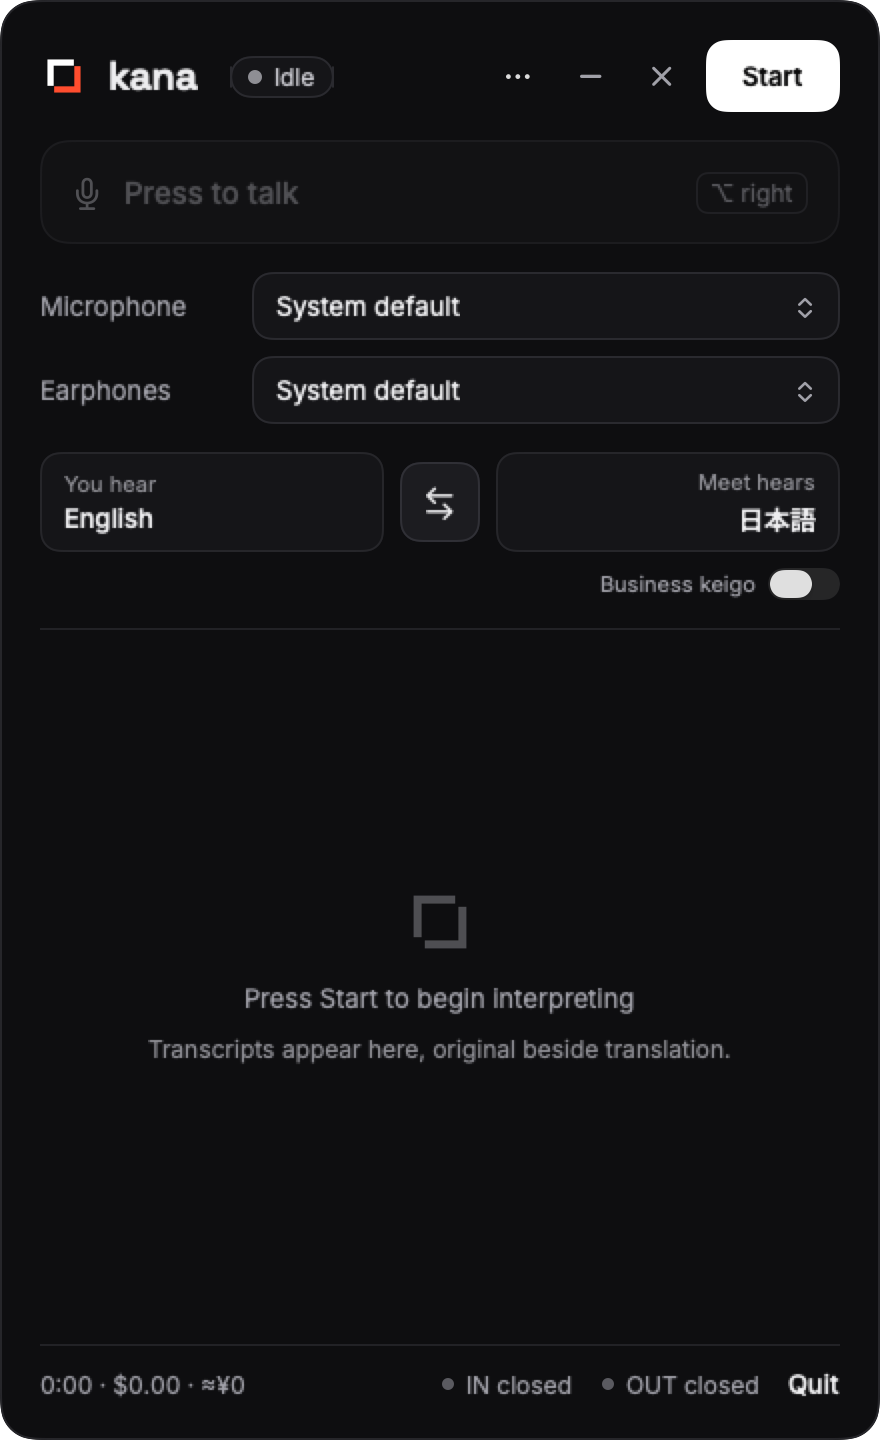
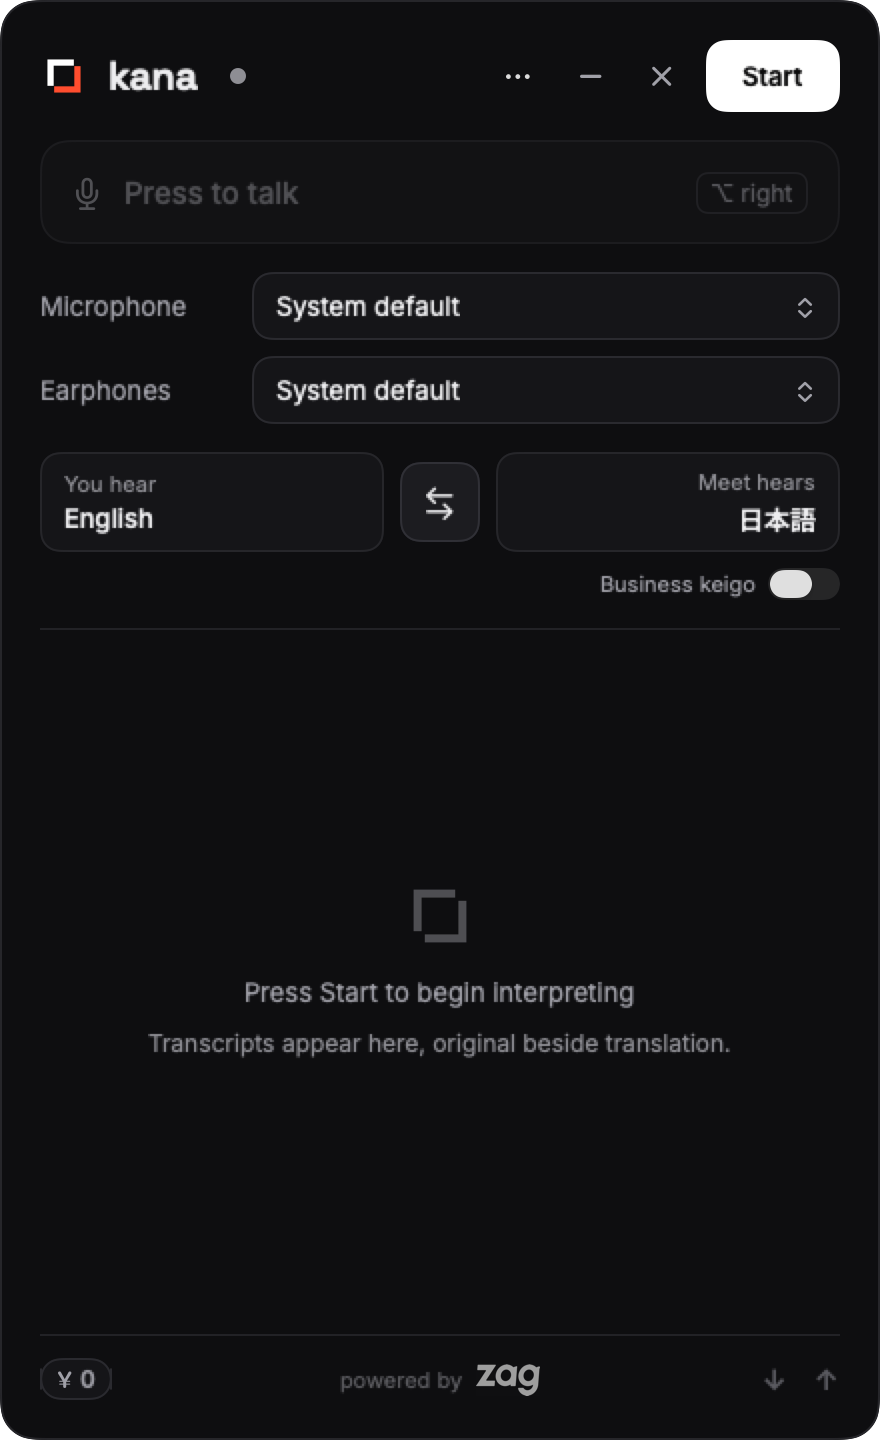
Panel footer and state dot (snapshot of main)

diff --git a/app/Sources/Kana/PanelView.swift b/app/Sources/Kana/PanelView.swift
@@ -177,7 +177,6 @@ struct PanelView: View {
                     transcript
                 }
                 footer
-                CreditLine()
             }
             .opacity(f.content)
             .offset(y: 8 * (1 - f.content))
@@ -215,8 +214,9 @@ struct PanelView: View {
                     .opacity(f.move)
                 StatePill(live: engine.running, passing: engine.passingThrough)
                     .fixedSize()
-                    .padding(.leading, 6)
-                    .help(engine.model == nil ? "" : engine.engineTooltip)
+                    .padding(.leading, 2)
+                    .help(StatePill(live: engine.running, passing: engine.passingThrough).word
+                          + (engine.model == nil ? "" : "\n" + engine.engineTooltip))
                     .opacity(f.content)
             }
             Spacer(minLength: 4)
@@ -235,6 +235,7 @@ struct PanelView: View {
                     Image(systemName: "xmark").font(.system(size: 12, weight: .semibold))
                 }
                 .buttonStyle(IconButtonStyle())
+                .keyboardShortcut("q")
                 .help(L10n.t("Quit kana"))
                 if engine.running {
                     Button(L10n.t("Stop")) { engine.stop() }
@@ -702,25 +703,16 @@ struct PanelView: View {
     // MARK: Footer
 
     private var footer: some View {
-        HStack(spacing: 10) {
-            TimelineView(.periodic(from: .now, by: 1)) { ctx in
-                Text(costLine(now: ctx.date))
-                    .monospacedDigit()
-                    .foregroundStyle(engine.running ? Theme.text : Theme.text3)
-                    .lineLimit(1)
-                    .fixedSize()
+        ZStack {
+            HStack(spacing: 10) {
+                costChip
+                Spacer(minLength: 4)
+                HStack(spacing: 12) {
+                    stream("IN", engine.inState, engine.latencyMs["in"])
+                    stream("OUT", engine.outState, engine.latencyMs["out"])
+                }
             }
-            .help(costTooltip)
-            Spacer(minLength: 4)
-            HStack(spacing: 12) {
-                stream("IN", engine.inState, engine.latencyMs["in"])
-                stream("OUT", engine.outState, engine.latencyMs["out"])
-                Button(L10n.t("Quit")) { actions.quit() }
-                    .buttonStyle(.plain)
-                    .font(Theme.ui(13, 500))
-                    .foregroundStyle(Theme.text)
-                    .keyboardShortcut("q")
-            }
+            CreditLine()
         }
         .font(Theme.ui(12))
         .foregroundStyle(Theme.text3)
@@ -728,9 +720,30 @@ struct PanelView: View {
         .overlay(alignment: .top) { Rectangle().fill(Theme.lineSoft).frame(height: 1) }
     }
 
+    /// The running cost as a small chip: a yen glyph and the amount, nothing else on the face.
+    private var costChip: some View {
+        TimelineView(.periodic(from: .now, by: 1)) { ctx in
+            HStack(spacing: 3) {
+                Image(systemName: "yensign")
+                    .font(.system(size: 9, weight: .bold))
+                Text(costLine(now: ctx.date))
+                    .monospacedDigit()
+                    .font(Theme.ui(12, 600))
+            }
+            .foregroundStyle(engine.running ? Theme.text : Theme.text3)
+            .lineLimit(1)
+            .fixedSize()
+            .padding(.horizontal, 8)
+            .padding(.vertical, 3)
+            .background(Capsule().fill(Theme.surface))
+            .overlay(Capsule().strokeBorder(Theme.c(0x2A2A2F)))
+        }
+        .help(costTooltip)
+    }
+
     /// Footer shows the yen only ("¥13"); time, dollars and the silence saved are in its tooltip.
     private func costLine(now: Date) -> String {
-        let jpy = "¥\(Int((engine.usd * EngineProcess.jpyPerUSD).rounded()))"
+        let jpy = "\(Int((engine.usd * EngineProcess.jpyPerUSD).rounded()))"
         let est = engine.running && engine.costIsEstimate ? " " + L10n.t("est.") : ""
         return jpy + est
     }

diff --git a/app/Sources/Kana/Credit.swift b/app/Sources/Kana/Credit.swift
@@ -1,43 +1,42 @@
 import AppKit
 import SwiftUI
 
-/// "a product of [zag]": one quiet line under the panel footer and at the end of Setup.
+/// "powered by [zag]": sits in the middle of the panel footer and at the end of Setup.
 /// The wordmark is the drawn mark (brand rule: never typed), 19 pt tall, the brand minimum
-/// on screen, with clear space around it. Click opens withzag.com.
+/// on screen, centred on the text line. Click opens withzag.com.
 struct CreditLine: View {
     static let url = URL(string: "https://withzag.com")!
     @State private var hovering = false
 
     private static let mark: NSImage? = {
-        guard let url = Bundle.main.resourceURL?.appendingPathComponent("Brand/zag-logo-white.png"),
-              let img = NSImage(contentsOf: url) else { return nil }
-        img.size = NSSize(width: 19 * img.size.width / img.size.height, height: 19)
-        return img
+        guard let url = Bundle.main.resourceURL?.appendingPathComponent("Brand/zag-logo-white.png") else { return nil }
+        return NSImage(contentsOf: url)
     }()
 
     var body: some View {
-        HStack {
-            Spacer(minLength: 0)
-            line
-                .font(Theme.ui(11))
-                .foregroundStyle(Theme.text4)
-                .opacity(hovering ? 1 : 0.6)
-                .padding(.vertical, 4)
-                .contentShape(Rectangle())
-                .onHover { hovering = $0; if $0 { NSCursor.pointingHand.push() } else { NSCursor.pop() } }
-                .onTapGesture { NSWorkspace.shared.open(Self.url) }
-                .help(L10n.t("Made by ZAG. Opens withzag.com."))
-                .accessibilityLabel(Text(L10n.f("a product of %@", "ZAG")))
-        }
-        .padding(.top, -10)      // sit close under the footer rule
-        .padding(.bottom, -10)   // and use part of the panel's own inset
+        line
+            .contentShape(Rectangle())
+            .opacity(hovering ? 1 : 0.6)
+            .onHover { hovering = $0; if $0 { NSCursor.pointingHand.push() } else { NSCursor.pop() } }
+            .onTapGesture { NSWorkspace.shared.open(Self.url) }
+            .help(L10n.t("Made by ZAG. Opens withzag.com."))
+            .accessibilityElement(children: .ignore)
+            .accessibilityLabel(Text(L10n.f("powered by %@", "ZAG")))
     }
 
-    /// The localized template around the mark: "a product of %@" / "%@ のプロダクト".
-    private var line: Text {
-        let template = L10n.t("a product of %@")
-        let parts = template.components(separatedBy: "%@")
-        let mark: Text = Self.mark.map { Text(Image(nsImage: $0)).baselineOffset(-4) } ?? Text(verbatim: "zag")
-        return Text(verbatim: parts.first ?? "") + mark + Text(verbatim: parts.count > 1 ? parts[1] : "")
+    /// The localized template around the mark ("powered by %@"), text and mark centre-aligned.
+    private var line: some View {
+        let parts = L10n.t("powered by %@").components(separatedBy: "%@")
+        return HStack(alignment: .center, spacing: 6) {
+            if let a = parts.first, !a.isEmpty { Text(verbatim: a.trimmingCharacters(in: .whitespaces)) }
+            if let m = Self.mark {
+                Image(nsImage: m).resizable().interpolation(.high).scaledToFit().frame(height: 16)
+            } else {
+                Text(verbatim: "zag")
+            }
+            if parts.count > 1, !parts[1].isEmpty { Text(verbatim: parts[1].trimmingCharacters(in: .whitespaces)) }
+        }
+        .font(Theme.ui(11))
+        .foregroundStyle(Theme.text4)
     }
 }

diff --git a/app/Sources/Kana/Theme.swift b/app/Sources/Kana/Theme.swift
@@ -196,21 +196,17 @@ struct StatePill: View {
     let live: Bool
     var passing = false
     var lang = L10n.lang   // re-renders the pill when the UI language changes
+    var word: String { live ? L10n.t("Live") : (passing ? L10n.t("Not translating") : L10n.t("Idle")) }
+    /// A dot, nothing else: orange with a ping while live, green while audio passes through
+    /// untranslated, grey when idle. The word is the tooltip and the accessibility label.
     var body: some View {
-        HStack(spacing: 6) {
-            ZStack {
-                Circle().fill(live ? Theme.accent : (passing ? Theme.ok : Theme.text4)).frame(width: 7, height: 7)
-                if live { PingRing() }
-            }
-            Text(live ? L10n.t("Live") : (passing ? L10n.t("Not translating") : L10n.t("Idle")))
-                .lineLimit(1)
+        ZStack {
+            Circle().fill(live ? Theme.accent : (passing ? Theme.ok : Theme.text4)).frame(width: 8, height: 8)
+            if live { PingRing() }
         }
-        .font(Theme.ui(12))
-        .foregroundStyle(live ? Theme.liveText : Theme.text2)
-        .padding(.horizontal, 9)
-        .padding(.vertical, 3)
-        .background(Capsule().fill(live ? Theme.accentBg : Theme.surface))
-        .overlay(Capsule().strokeBorder(live ? Theme.accentLine : Theme.c(0x2A2A2F)))
+        .frame(width: 16, height: 16)
+        .help(word)
+        .accessibilityLabel(Text(word))
     }
 }
 

diff --git a/app/Sources/Kana/Setup.swift b/app/Sources/Kana/Setup.swift
@@ -332,7 +332,7 @@ struct SetupView: View {
                         }
                     }
                     if let msg = model.engineMessage { check(false, L10n.t("That folder is not an engine"), msg) }
-                    CreditLine()
+                    HStack { Spacer(); CreditLine(); Spacer() }.padding(.top, 8)
                 }
             }
             .scrollIndicators(.never)

diff --git a/app/checks/l10n/check_l10n.py b/app/checks/l10n/check_l10n.py
@@ -25,6 +25,7 @@ TABLES = {lang: APP / "Resources" / f"{lang}.lproj" / "Kana.strings" for lang in
 # ja may equal en for these: names that stay in Latin letters, and symbols.
 ALLOW_SAME = {
     "OK",
+    "powered by %@",   # brand line stays English under the ZAG wordmark
 }
 
 KEY_RE = re.compile(r'L10n\.(?:t|f)\(\s*"((?:[^"\\\n]|\\.)*)"')

diff --git a/README.ja.md b/README.ja.md
@@ -389,8 +389,8 @@ brew uninstall --cask blackhole-2ch blackhole-16ch
 
 [Apache License 2.0](LICENSE) で公開。Copyright 2026 [Selva Ragul Kumar](https://selvaragulkumar.com)。
 
-<p align="center"><sub>a product of</sub>&nbsp; <a href="https://withzag.com"><img src="docs/images/zag-logo.png" height="19" alt="zag"></a></p>
+<p align="center"><sub>powered by</sub>&nbsp; <a href="https://withzag.com"><img src="docs/images/zag-logo.png" height="19" alt="zag"></a></p>
 
-kana は [ZAG](https://withzag.com) のプロダクトです。kana のマークと ZAG のワードマークは商標で、Apache ライセンスの対象外です ([docs/BRAND.md](docs/BRAND.md))。
+kana は [ZAG](https://withzag.com) が支えています (powered by ZAG)。kana のマークと ZAG のワードマークは商標で、Apache ライセンスの対象外です ([docs/BRAND.md](docs/BRAND.md))。
 
 kana は Google、Zoom、Microsoft、Existential Audio とは関係がない。

diff --git a/README.md b/README.md
@@ -406,8 +406,8 @@ Finally, delete the cloned folder if you built from source (it may hold a `.env`
 
 Licensed under the [Apache License 2.0](LICENSE). Copyright 2026 [Selva Ragul Kumar](https://selvaragulkumar.com).
 
-<p align="center"><sub>a product of</sub>&nbsp; <a href="https://withzag.com"><img src="docs/images/zag-logo.png" height="19" alt="zag"></a></p>
+<p align="center"><sub>powered by</sub>&nbsp; <a href="https://withzag.com"><img src="docs/images/zag-logo.png" height="19" alt="zag"></a></p>
 
-kana is a product of [ZAG](https://withzag.com). The kana mark and the ZAG wordmark are trademarks and are not covered by the Apache licence; see [docs/BRAND.md](docs/BRAND.md).
+kana is powered by [ZAG](https://withzag.com). The kana mark and the ZAG wordmark are trademarks and are not covered by the Apache licence; see [docs/BRAND.md](docs/BRAND.md).
 
 kana is not affiliated with Google, Zoom, Microsoft or Existential Audio.

diff --git a/docs/BRAND.md b/docs/BRAND.md
@@ -1,6 +1,6 @@
 # Brand
 
-kana is a product of [ZAG](https://withzag.com). The app shows "a product of zag" under the panel footer and at the end of Setup, with the drawn ZAG wordmark (`app/Resources/Brand/zag-logo-white.png`, 19 pt tall, the brand minimum).
+kana is powered by [ZAG](https://withzag.com). The app shows "powered by zag" under the panel footer and at the end of Setup, with the drawn ZAG wordmark (`app/Resources/Brand/zag-logo-white.png`, 19 pt tall, the brand minimum).
 
 - The kana mark (`design/kana-mark.svg`, `design/kana-app-icon.svg`) and the ZAG wordmark are trademarks. The Apache 2.0 licence covers the code, not these marks (Apache 2.0 §6).
 - Forks may keep the credit line or remove it, but must not present a modified build as kana or as a ZAG product.

diff --git a/CHANGELOG.md b/CHANGELOG.md
@@ -8,7 +8,7 @@ The format is based on [Keep a Changelog](https://keepachangelog.com/en/1.1.0/),
 
 ### Added
 
-- **Credit line.** "a product of zag" with the ZAG wordmark under the panel footer and at the end of Setup, in English and Japanese; click opens withzag.com. Trademark note in docs/BRAND.md and the READMEs.
+- **Credit line.** "powered by zag" with the ZAG wordmark under the panel footer and at the end of Setup, in English and Japanese; click opens withzag.com. Trademark note in docs/BRAND.md and the READMEs.
 
 ## [0.1.0] - 2026-11-13
 
